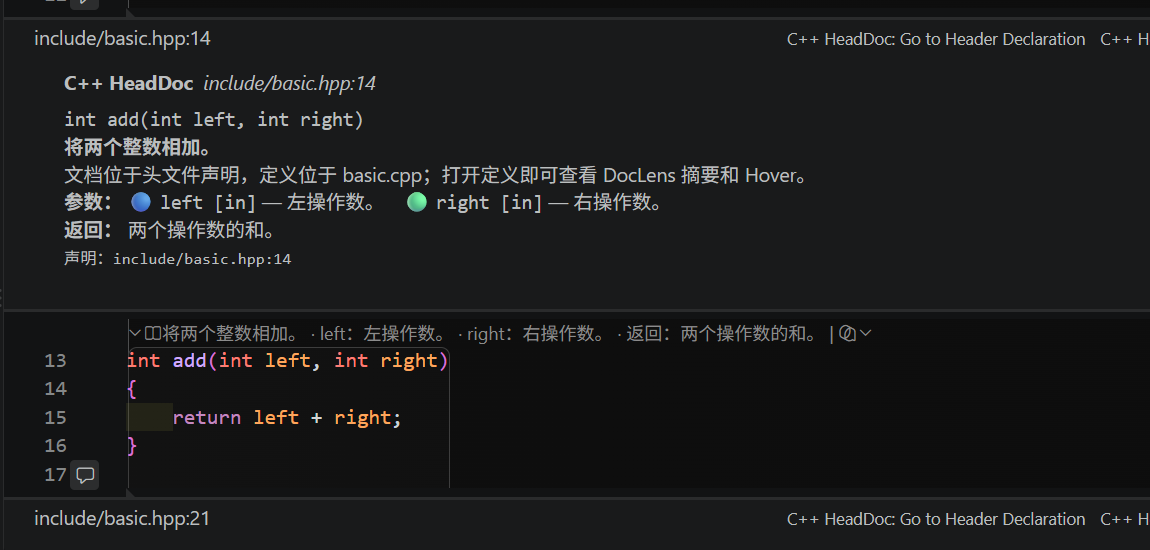
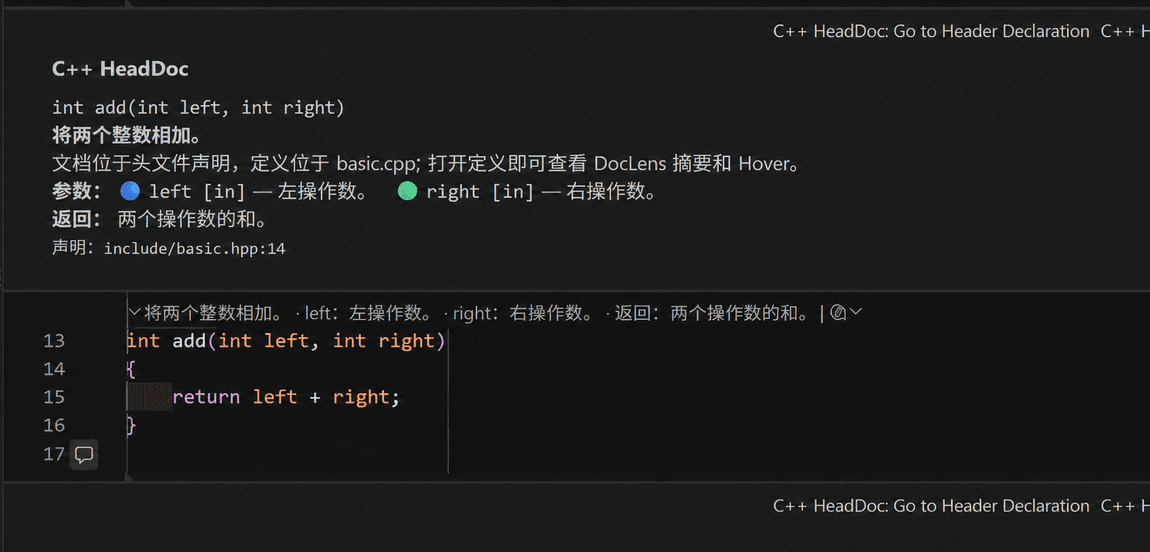
fix: streamline inline declaration metadata

diff --git a/src/inlineComments.ts b/src/inlineComments.ts
@@ -108,13 +108,11 @@ export class InlineDocumentationController implements vscode.Disposable {
       existing.resolved = resolved;
       existing.thread.range = anchorRange(resolved);
       existing.thread.comments = [comment];
-      existing.thread.label = resolved.declarationLabel;
       return existing;
     }
     const thread = this.#controller.createCommentThread(resolved.sourceUri, anchorRange(resolved), [comment]);
     thread.canReply = false;
     thread.contextValue = 'cppHeadDoc.readonlyDocumentation';
-    thread.label = resolved.declarationLabel;
     const initialState = getConfig(resolved.sourceUri).inlineCommentsExpanded
       ? vscode.CommentThreadCollapsibleState.Expanded
       : vscode.CommentThreadCollapsibleState.Collapsed;
@@ -176,7 +174,6 @@ function createComment(resolved: ResolvedDocumentation): vscode.Comment {
     body,
     mode: vscode.CommentMode.Preview,
     author: { name: 'C++ HeadDoc' },
-    label: resolved.declarationLabel,
     contextValue: 'cppHeadDoc.readonlyDocumentation',
   };
 }

diff --git a/README.en.md b/README.en.md
@@ -4,7 +4,7 @@ English | [简体中文](README.md)
 
 C++ HeadDoc brings Doxygen documentation from header declarations directly beside `.cpp` and `.c` implementations. The initial view stays compact; CodeLens expands wrapped documentation with three relative text sizes. Hover, declaration navigation, and an optional Markdown preview provide quick and detailed access.
 
-Current version: `0.2.0`
+Current version: `0.2.1`
 
 ## Interface
 
@@ -34,7 +34,7 @@ C++ HeadDoc relies on the language service for symbol and declaration locations.
 Download the VSIX from [GitHub Releases](https://github.com/timzou/cpp-headdoc/releases/latest), then run:
 
 ```powershell
-code --install-extension cpp-headdoc-0.2.0.vsix
+code --install-extension cpp-headdoc-0.2.1.vsix
 ```
 
 You can also select **Install from VSIX…** from the Extensions view menu.
@@ -44,7 +44,7 @@ To package from source:
 ```powershell
 npm ci
 npm run package
-code --install-extension release/cpp-headdoc-0.2.0.vsix
+code --install-extension release/cpp-headdoc-0.2.1.vsix
 ```
 
 ## Quick start

diff --git a/CHANGELOG.md b/CHANGELOG.md
@@ -2,6 +2,12 @@
 
 本文件记录 C++ HeadDoc 的公开版本变化。
 
+## [0.2.1] - 2026-08-28
+
+### Changed
+
+- 声明位置在展开文档中集中显示一次，使线程标题更紧凑。
+
 ## [0.2.0] - 2026-08-28
 
 ### Added
